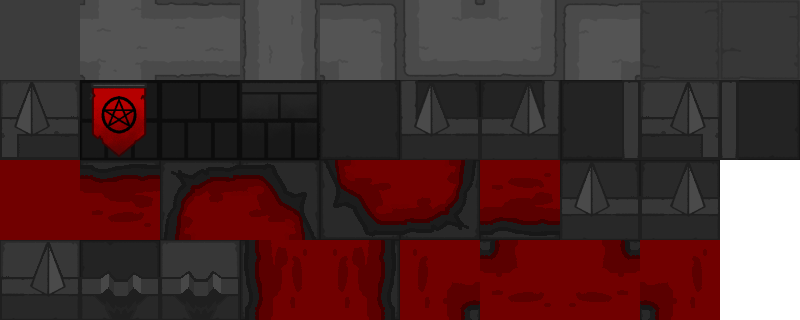
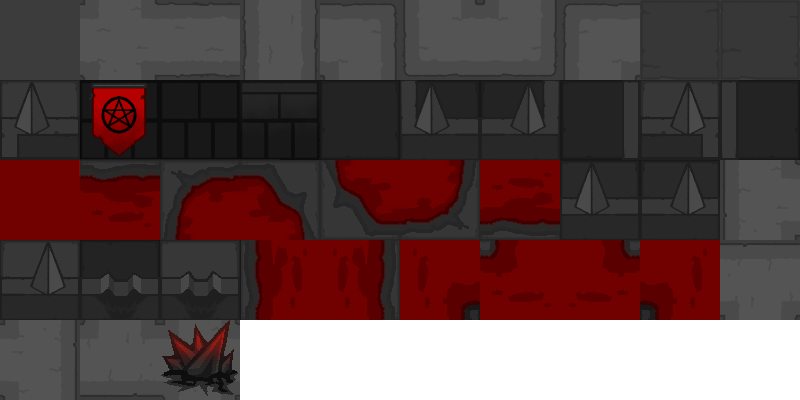
2023.01.07 map complete commit

diff --git a/src/main/resources/static/js/wasd_towerDefense/Stage1.js b/src/main/resources/static/js/wasd_towerDefense/Stage1.js
@@ -25,24 +25,24 @@ export class STAGE_1 extends Phaser.Scene
     {
         // 타일 맵
         const level = [
-            [  18,   8,   8,   8,   8,   8,   8,   8,   8,   8,   8,  8,  8,  8,  8,  8,  8,  8,  8,  8,  8,  8,  8,  8,  8,  8,  8,  8,  8,  8,  8,  8 ],
-            [  17,   8,   8,   8,   8,   8,   8,   8,   8,   8,   8,  8,  8,  8,  8,  8,  8,  8,  8,  8,  8,  8,  8,  8,  8,  8,  8,  8,  8,  8,  8,  8 ],
-            [  17,   8,   8,   8,   8,   8,   8,   8,   8,   8,   8,  8,  8,  8,  8,  8,  8,  8,  8,  8,  8,  8,  8,  8,  8,  8,  8,  8,  8,  8,  8,  8 ],
-            [  16,   8,   8,   8,   8,   8,   8,   8,   8,   8,   8,  8,  8,  8,  8,  8,  8,  8,  8,  8,  8,  8,  8,  8,  8,  8,  8,  8,  8,  8,  8,  8 ],
-            [  13,   8,   8,   8,   8,   8,   8,   8,   8,   8,   8,  8,  8,  8,  8,  8,  8,  8,  8,  8,  8,  8,  8,  8,  8,  8,  8,  8,  8,  8,  8,  8 ],
-            [  2,   2,   8,   8,   8,   8,   8,   8,   8,   8,   8,  8,  8,  7,  2,  2,  2,  2,  2,  4,  8,  8,  8,  8,  8,  8,  8,  8,  8,  8,  8,  8 ],
-            [  18,   8,   8,   8,   8,   8,   8,   8,   8,   8,   8,  8,  8,  3,  10,  32,  32,  32,  18,  3,  8,  8,  8,  8,  8,  8,  8,  8,  8,  8,  8,  8 ],
-            [  17,   8,   8,   8,   8,   8,   8,   8,   8,   8,   8,  8,  8,  3,  19,  14,  14,  14,  17,  3,  8,  8,  8,  8,  8,  8,  8,  8,  8,  8,  8,  8 ],
-            [  17,   8,   8,   8,   8,   8,   8,   8,   8,   2,   2,  2,  2,  1,  15,  31,  31,  31,  16,  3,  8,  8,  8,  8,  8,  8,  8,  8,  8,  8,  8,  8 ],
-            [  17,   8,   8,   8,   8,   8,   8,   8,   8,   8,   8,  8,  8,  3,  13,  13,  11,  13,  13,  3,  8,  8,  8,  8,  8,  8,  8,  8,  8,  8,  8,  8 ],
-            [  17,   8,   8,   8,   8,   8,   8,   8,   8,   8,   8,  8,  8,  5,  2,  2,  2,  2,  2,  6,  8,  8,  8,  8,  8,  8,  8,  8,  8,  8,  8,  8 ],
-            [  17,   8,   8,   8,   8,   8,   8,   8,   8,   8,   8,  8,  8,  8,  8,  8,  8,  8,  8,  8,  8,  8,  8,  8,  8,  8,  8,  8,  8,  8,  8,  8 ],
-            [  17,   8,   8,   8,   8,   8,   8,   8,   8,   8,   8,  8,  8,  8,  8,  8,  8,  8,  8,  8,  8,  8,  8,  8,  8,  8,  8,  8,  8,  8,  8,  8 ],
-            [  17,   8,   8,   8,   8,   8,   8,   8,   8,   8,   8,  8,  22,  23,  8,  8,  8,  8,  8,  8,  8,  8,  8,  8,  8,  8,  8,  8,  8,  8,  8,  8 ],
-            [  17,   8,   8,   8,   8,   8,   8,   8,   8,   8,   8,  8,  33,  34,  8,  8,  8,  8,  8,  8,  8,  8,  8,  8,  8,  8,  8,  8,  8,  8,  8,  8 ],
-            [  17,   3,   8,   8,   8,   8,   8,   8,   8,   8,   8,  8,  33,  34,  8,  8,  8,  8,  8,  8,  8,  8,  8,  8,  8,  8,  8,  8,  8,  8,  8,  8 ],
-            [  16,   3,   10,   32,   32,   32,   32,   32,   32,   32,   32,  18,  33,  34,  8,  8,  8,  8,  8,  8,  8,  8,  8,  8,  8,  8,  8,  8,  8,  8,  8,  8 ],
-            [  13,   3,   15,   31,   31,   31,   31,   31,   31,   31,   31,  16,  33,  34,  8,  8,  8,  8,  8,  8,  8,  8,  8,  8,  8,  8,  8,  8,  8,  8,  8,  8 ]
+            [  17,  15,   31,   31,   31,   31,   31,   31,   31,   31,   31,   31,   31,   31,  31,  16,  42,  15,  31,  31,  31,  31,  31,  31,  31,  31,  31,  31,  31,  31,  16,  19 ],
+            [  17,  13,   13,   13,   11,   13,   13,   13,   11,   13,   13,   13,   11,   13,  13,  13,   3,  13,  13,  11,  13,  13,  13,  11,  13,  13,  13,  11,  13,  13,  13,  19 ],
+            [  17,   8,    8,    8,    8,    8,    8,    8,    8,    8,    8,    8,    8,    8,   8,   8,   3,   8,   8,   8,   8,   8,   8,   8,   8,   8,   8,   8,   8,   8,   8,  19 ],
+            [  16,   8,    8,    8,    7,    2,    2,    4,    8,    8,   22,   23,    8,    8,   8,   8,   3,   8,   8,   8,   8,   8,   7,   2,   2,   4,   8,   8,   8,   8,   8,  15 ],
+            [  13,   8,    8,    8,    3,    8,    8,    3,    8,    8,   33,   34,    8,    8,   8,   8,   3,   8,   8,   8,   8,   8,   3,   8,   8,   3,   8,   8,   8,   8,   8,  13 ],
+            [  42,   2,    2,    2,    6,    8,    8,    3,    8,    8,   24,   25,    8,    7,   2,   2,  41,   2,   2,   4,   8,   8,   3,   8,   8,   3,   8,   8,   7,   2,   2,   2 ],
+            [  18,   8,    8,    8,    8,    8,    8,    3,    8,    8,    8,    8,    8,    3,  10,  32,  32,  32,  18,   3,   8,   8,   3,   8,   8,   3,   8,   8,   3,   8,   8,  10 ],
+            [  17,   8,    8,    8,    8,    8,    8,    3,    8,    8,    8,    8,    8,    3,  19,  14,  14,  14,  17,  29,   2,   2,   6,   8,   8,   5,   2,   2,   6,   8,   8,  19 ],
+            [  17,   7,    2,    2,    4,    8,    8,    5,    2,   39,    2,    2,    2,   40,  15,  31,  31,  31,  16,   3,   8,   8,   8,   8,   8,   8,   8,   8,   8,   8,   8,  19 ],
+            [  17,   3,    8,    8,    3,    8,    8,    8,    8,    3,    8,    8,    8,    3,  13,  13,  11,  13,  13,  29,   2,   2,   2,   2,   2,   2,   2,   2,   4,   8,   8,  19 ],
+            [  17,   3,    8,    8,    3,    8,    8,    8,    8,    3,    8,    8,    8,    5,   2,   2,  39,   2,   2,   6,   8,   8,   8,   8,   8,   8,   8,   8,   3,   8,   8,  19 ],
+            [  17,   3,    8,    8,    3,    8,    8,    8,    8,    3,    8,    8,    8,    8,   8,   8,   3,   8,   8,   8,   8,   8,   8,   8,   8,   8,   8,   8,   3,   8,   8,  19 ],
+            [  17,   3,    8,    8,    3,    8,    8,    8,    8,    3,    8,   22,   21,   21,  23,   8,   3,   8,   8,   7,   2,   2,   2,   2,   2,   2,   2,   2,   6,   8,   8,  19 ],
+            [  17,   3,    8,    8,    5,    2,    2,    2,    2,    6,    8,   33,   20,   20,  34,   8,   3,   8,   8,   3,   8,   8,   8,   8,   8,   8,   8,   8,   8,   8,   8,  19 ],
+            [  17,   3,    8,    8,    8,    8,    8,    8,    8,    8,    8,   24,   26,   26,  25,   8,   3,   8,   8,   5,   2,   2,   2,   2,   2,   2,   2,   2,   2,   2,   4,  19 ],
+            [  17,   3,    8,    8,    8,    8,    8,    8,    8,    8,    8,    8,    8,    8,   8,   8,   3,   8,   8,   8,   8,   8,   8,   8,   8,   8,   8,   8,   8,   8,   3,  19 ],
+            [  16,   3,   10,   32,   32,   32,   32,   32,   32,   32,   32,   32,   32,   32,  32,  18,   3,  10,  32,  32,  32,  32,  32,  32,  32,  32,  32,  32,  32,  18,   3,  15 ],
+            [  13,   3,   15,   31,   31,   31,   31,   31,   31,   31,   31,   31,   31,   31,  31,  16,  42,  15,  31,  31,  31,  31,  31,  31,  31,  31,  31,  31,  31,  16,  42,  13 ]
         ];
 
         // 맵 전체 크기
@@ -76,8 +76,6 @@ export class STAGE_1 extends Phaser.Scene
             right: this.cursors.right,
             up: this.cursors.up,
             down: this.cursors.down,
-            zoomIn: this.input.keyboard.addKey(Phaser.Input.Keyboard.KeyCodes.Q),
-            zoomOut: this.input.keyboard.addKey(Phaser.Input.Keyboard.KeyCodes.E),
             acceleration: 0.06,
             drag: 0.0005,
             maxSpeed: 1.0
